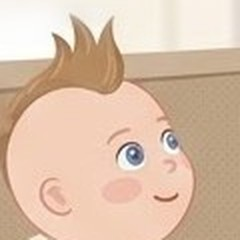
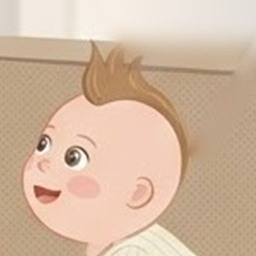
Telefon denemesinden düzeltmeler
Avatarlar yüzlere ortalandı; Profil özet cümlesindeki boşluk hatası giderildi;
Ayarlar'dan "Dil kuralı" kutusu kaldırıldı; hero görseli tam gösteriliyor;
tüm tummy time kartlarına görsel eklendi; "Canlandır" için kare dizisi
oynatıcısı eklendi (kareler gelince etkinleşir).

diff --git a/css/app.css b/css/app.css
@@ -86,7 +86,7 @@ a { color: var(--green-dark); }
 }
 .profil-summary .label { font-size: 14px; font-weight: 700; color: var(--text-2); }
 .profil-summary .value { font-size: 17px; font-weight: 900; }
-.profil-summary .note { font-size: 13px; font-weight: 600; color: var(--text-2); }
+.profil-summary .summary-note { font-size: 13px; font-weight: 600; color: var(--text-2); }
 
 .profil .btn-primary { margin-top: auto; }
 
@@ -155,9 +155,6 @@ a { color: var(--green-dark); }
 .note--sage { background: var(--sage-light); }
 .note--sage .note-text { color: #33493C; }
 .note--sage svg { flex: none; }
-.note--peach { background: var(--peach-light); }
-.note--peach .note-text { color: #5E3A22; }
-.note--peach .avatar { width: 34px; height: 34px; flex: none; }
 .note--card { background: var(--card); flex-direction: column; gap: 6px; box-shadow: var(--shadow); }
 .note--card .note-text { color: var(--text-2); }
 .note-small { font-size: 13px; font-weight: 700; color: var(--text-2); }
@@ -192,7 +189,7 @@ a { color: var(--green-dark); }
 .task-head .cat { font-weight: 700; color: var(--text-2); }
 .now-tag { display: inline-block; margin-bottom: 4px; background: var(--green); color: #fff; border-radius: 10px; padding: 2px 8px; font-size: 11px; font-weight: 900; letter-spacing: 0.6px; }
 .cat-badge { width: 30px; height: 30px; flex: none; border-radius: 15px; display: flex; align-items: center; justify-content: center; }
-.task-img { display: block; width: 100%; height: 150px; object-fit: cover; object-position: 50% 45%; border-radius: 14px; }
+.task-img { display: block; width: 100%; height: auto; border-radius: 14px; }
 .task-desc { margin: 0; font-size: 14px; line-height: 1.5; font-weight: 600; color: #4C463D; }
 .task-note { margin: 0; font-size: 13px; line-height: 1.4; font-weight: 800; color: var(--tag-dil-fg); background: var(--tag-dil-bg); border-radius: 12px; padding: 6px 10px; }
 .task-foot { display: flex; align-items: center; justify-content: space-between; gap: 8px; }
@@ -259,16 +256,17 @@ body.sheet-open { overflow: hidden; }
 .open-pill { position: absolute; right: 10px; bottom: 10px; background: var(--green); color: #fff; border-radius: 16px; padding: 7px 14px; font-size: 13px; font-weight: 800; }
 
 .gorev { background: var(--cream); }
-.hero { position: relative; height: 300px; background: var(--peach); overflow: hidden; }
-.hero img { display: block; width: 100%; height: 100%; object-fit: cover; object-position: 50% 40%; }
-.hero--plain { height: 170px; display: flex; align-items: center; justify-content: center; }
+.hero { position: relative; background: var(--peach); overflow: hidden; padding-bottom: 28px; }
+.hero-art { position: relative; }
+.hero-art img { display: block; width: 100%; height: auto; }
+.hero-art img.frame { position: absolute; inset: 0; height: 100%; opacity: 0; }
+.hero--plain { height: 170px; padding-bottom: 0; display: flex; align-items: center; justify-content: center; }
 .hero-back { position: absolute; left: 16px; top: calc(16px + env(safe-area-inset-top)); width: 44px; height: 44px; border-radius: 22px; background: rgba(251, 247, 241, 0.92); display: flex; align-items: center; justify-content: center; }
 .play-btn { position: absolute; right: 16px; bottom: 44px; height: 44px; padding: 0 18px; border: none; border-radius: 22px; background: rgba(251, 247, 241, 0.94); color: var(--text); font-size: 14px; font-weight: 800; }
 .hero .pop { position: absolute; top: 70px; right: 16px; background: var(--card); border-radius: 18px; padding: 8px 14px; font-size: 16px; font-weight: 900; box-shadow: 0 6px 16px -8px rgba(60, 50, 35, 0.5); }
 .hero .h1 { position: absolute; left: 50%; top: 42%; }
 .hero .h2 { position: absolute; left: 56%; top: 50%; opacity: 0; }
-.hero img.still { transform: scale(1.02); }
-.hero img.live { transform-origin: 60% 45%; }
+.hero-art img.live { transform-origin: 60% 45%; }
 
 .panel { margin-top: -28px; position: relative; flex: 1; background: var(--card); border-radius: 30px 30px 0 0; padding: 22px 18px calc(28px + env(safe-area-inset-bottom)); display: flex; flex-direction: column; gap: 16px; }
 .panel-head { display: flex; flex-direction: column; gap: 8px; }
@@ -290,7 +288,7 @@ body.sheet-open { overflow: hidden; }
 @keyframes pop { 0%, 8% { opacity: 0; transform: translateY(8px) scale(0.9); } 18%, 70% { opacity: 1; transform: translateY(0) scale(1); } 84%, 100% { opacity: 0; transform: translateY(-4px); } }
 @keyframes rise { 0% { opacity: 0; transform: translateY(0) scale(0.6); } 20% { opacity: 1; transform: translateY(-8px) scale(1); } 100% { opacity: 0; transform: translateY(-46px) scale(0.9); } }
 @media (prefers-reduced-motion: no-preference) {
-  .hero img.live { animation: kb 6s ease-in-out infinite; }
+  .hero-art img.live { animation: kb 6s ease-in-out infinite; }
   .hero .pop { animation: pop 4s ease-in-out infinite; }
   .hero .h1 { animation: rise 3s ease-out infinite; }
   .hero .h2 { animation: rise 3s ease-out 1.4s infinite; }

diff --git a/js/screens/gorev.js b/js/screens/gorev.js
@@ -2,7 +2,7 @@ import { TASKS } from '../data/tasks.js';
 import { PACKS } from '../data/phrases.js';
 import { getProfile, getLevels, getDone, toggleDone, dateKey } from '../state.js';
 import { pickDay } from '../logic/pick.js';
-import { CATEGORY, IMAGES, IMAGE_ALT, categoryIcon } from '../categories.js';
+import { CATEGORY, IMAGES, IMAGE_ALT, FRAMES, categoryIcon } from '../categories.js';
 import { openCoach, coachIcon, phraseListHtml, bindListen, stopSpeaking } from '../coach.js';
 
 const HEART = 'M12 21s-8-5-8-11a4.5 4.5 0 0 1 8-2.8A4.5 4.5 0 0 1 20 10c0 6-8 11-8 11z';
@@ -15,6 +15,23 @@ const ANNE_PHRASE = '“Aferin oğluma, ne güçlüsün!”';
 
 const SAFETY_TUMMY =
   'Tummy time yalnızca bebek uyanıkken ve yakın gözetim altındayken yapılır. Sen uykuya dalıyorsan hemen bitir. Uyku her zaman sırtüstüdür; karnüstü bir uyku pozisyonu değildir. Kaynak: AAP';
+
+// Kareleri sırayla, yumuşak geçişle döngüye sokar (kare başına ~1,8 sn). Hareket azaltma açıksa ilk karede kalır.
+function playFrames(imgs) {
+  const n = imgs.length;
+  if (matchMedia('(prefers-reduced-motion: reduce)').matches) return;
+  const fade = 0.15 / n;
+  imgs.forEach((img, i) => {
+    const start = i / n;
+    const end = (i + 1) / n;
+    const keys = [];
+    if (i > 0) keys.push({ offset: 0, opacity: 0 }, { offset: start - fade, opacity: 0 });
+    keys.push({ offset: start, opacity: 1 }, { offset: end - fade, opacity: 1 }, { offset: end, opacity: 0 });
+    if (i === 0) keys.push({ offset: 1 - fade, opacity: 0 }, { offset: 1, opacity: 1 });
+    else if (end < 1) keys.push({ offset: 1, opacity: 0 });
+    img.animate(keys, { duration: n * 1800, iterations: Infinity });
+  });
+}
 
 export function render(root, navigate, id) {
   const task = TASKS.find((t) => t.id === id);
@@ -33,6 +50,8 @@ export function render(root, navigate, id) {
     stopSpeaking();
     const done = getDone(key).includes(id);
     const image = task.image && IMAGES[task.image]?.[view];
+    const seq = task.image && FRAMES[task.image]?.[view];
+    const frames = seq && seq.length > 1 ? seq : null;
     const sources = task.source.length ? task.source : ['Plan'];
     const babaNote = me === 'baba' && task.babaNote ? `<p class="task-note">${task.babaNote}</p>` : '';
     const phrase = PACKS.tummy.phrases[1];
@@ -40,7 +59,13 @@ export function render(root, navigate, id) {
     root.innerHTML = `
       <main class="screen gorev">
         <div class="hero${image ? '' : ' hero--plain'}" style="${image ? '' : `background:${cat.bg}`}">
-          ${image ? `<img src="${image}" alt="${IMAGE_ALT[view]}" class="${playing ? 'live' : 'still'}">` : `<span class="hero-icon">${categoryIcon(cat, 56)}</span>`}
+          ${
+            image
+              ? `<div class="hero-art"><img src="${image}" alt="${IMAGE_ALT[view]}" class="${playing && !frames ? 'live' : 'still'}">${
+                  playing && frames ? frames.map((f) => `<img class="frame" src="${f}" alt="">`).join('') : ''
+                }</div>`
+              : `<span class="hero-icon">${categoryIcon(cat, 56)}</span>`
+          }
           ${
             image && playing
               ? `<span class="pop">${BUBBLE[view]}</span>
@@ -88,6 +113,7 @@ export function render(root, navigate, id) {
         </div>
       </main>`;
 
+    if (playing && frames) playFrames(root.querySelectorAll('.hero-art img.frame'));
     root.querySelector('[data-play]')?.addEventListener('click', () => {
       playing = !playing;
       draw();

diff --git a/js/data/tasks.js b/js/data/tasks.js
@@ -13,7 +13,7 @@ const NONE = [];
 const RAW = {
   '0-3': {
     temel: [
-      ['sabah', 'ikisi', 'yok', 'hareket', 'Kısa tummy time', 'Bez değişiminden ya da uykudan sonra, Aslan uyanıkken ve gözetim altındayken 3–5 dakikayla başla. Günde 2–3 kez; 7. haftaya kadar günde toplam 15–30 dakikaya çıkar.', AAP],
+      ['sabah', 'ikisi', 'yok', 'hareket', 'Kısa tummy time', 'Bez değişiminden ya da uykudan sonra, Aslan uyanıkken ve gözetim altındayken 3–5 dakikayla başla. Günde 2–3 kez; 7. haftaya kadar günde toplam 15–30 dakikaya çıkar.', AAP, { image: 'gogus' }],
       ['ogle', 'ikisi', 'yok', 'hareket', 'Göğüste tummy time', 'En kolay yol: sırtüstü uzan, Aslan göğsünde. Sonra yerde battaniye, oyuncak tam uzanamayacağı mesafede.', NONE, { image: 'gogus' }],
       ['ogle', 'ikisi', 'yok', 'hareket', 'Şarkıyla kol-bacak hareketi', 'Şarkı söylerken kollarını ve bacaklarını nazikçe hareket ettir.', CDC],
       ['ogle', 'ikisi', 'yok', 'bilissel', 'Görsel takip oyunu', 'Parlak bir oyuncağı yavaşça sağdan sola, yukarıdan aşağı gezdir; gözüyle takip ediyor mu bak.', CDC],
@@ -38,7 +38,7 @@ const RAW = {
   },
   '4-6': {
     temel: [
-      ['sabah', 'ikisi', 'yok', 'hareket', 'Tummy time devam', 'Hareket etmeye başlamamış bebek için gün içine yayılmış en az 30 dakika.', WHO],
+      ['sabah', 'ikisi', 'yok', 'hareket', 'Tummy time devam', 'Hareket etmeye başlamamış bebek için gün içine yayılmış en az 30 dakika.', WHO, { image: 'gogus' }],
       ['ogle', 'ikisi', 'yok', 'hareket', 'Oyuncak çemberi', 'Oyuncakları etrafına daire şeklinde diz, farklı yönlere uzansın.', AAP],
       ['ogle', 'ikisi', 'yok', 'hareket', 'Yerde serbest oyun', 'Yerde her gün serbest oyun; yuvarlanmayı teşvik etmek için oyuncağı yan tarafa koy.', NONE],
       ['ogle', 'ikisi', 'yok', 'hareket', 'Zıplatma oyunu', 'Koltuk altından tutup ayaklarını kucağına bastırarak zıplat.', CDC],

diff --git a/js/screens/ayarlar.js b/js/screens/ayarlar.js
@@ -70,14 +70,6 @@ export function render(root, navigate) {
           </div>
         </section>
 
-        <section class="note note--peach">
-          <span class="avatar"><img src="assets/av_anne.jpg" alt=""></span>
-          <div>
-            <span class="note-title">Dil kuralı değişmez</span>
-            <span class="note-text">İngilizce kartlar yalnızca baba profiline gider. Anne profilinde seviye sadece Türkçe kartların sayısını değiştirir; anneye hiçbir seviyede İngilizce görev verilmez.</span>
-          </div>
-        </section>
-
         <section class="note note--card">
           <span class="note-title">Bilmen gerekenler</span>
           <span class="note-text">Tüm kartlar kaynaklıdır (WHO, CDC, AAP, Harvard); uygulama içerik uydurmaz. Uygulama tanı koymaz. Gelişimle ilgili içini rahatsız eden bir şey olursa beklemeden çocuk doktoruna danış.</span>

diff --git a/js/categories.js b/js/categories.js
@@ -6,6 +6,11 @@ export const CATEGORY = {
 };
 
 export const IMAGES = { gogus: { baba: 'assets/baba.jpg', anne: 'assets/anne.jpg' } };
+// Gerçek hareket için kare dizisi: aynı kadrajdan çekilmiş kareler gelince buraya yaz, ör.
+//   gogus: { baba: ['assets/frames/gogus-baba-1.jpg', ...], anne: [...] }
+// "Canlandır" kareleri yumuşak geçişle döngüye sokar; kare yoksa yalnızca yavaş yakınlaşma olur.
+export const FRAMES = {};
+
 export const IMAGE_ALT = {
   baba: 'Baba kanepede yarı uzanmış, göğsündeki Aslan başını kaldırmış, yüz yüze bakışıyorlar',
   anne: 'Anne kanepede yarı uzanmış, göğsündeki Aslan başını kaldırmış, gülümseyerek bakışıyorlar',

diff --git a/js/screens/profil.js b/js/screens/profil.js
@@ -39,7 +39,7 @@ export function render(root, navigate) {
       <div class="profil-summary">
         <span class="label">Bu cihazda</span>
         <span class="value" data-summary></span>
-        <span class="note">Görev kartlarında ve görsellerde <span data-who-label></span> görünür.</span>
+        <span class="summary-note">Görev kartlarında ve görsellerde <span data-who-label></span> görünür.</span>
       </div>
 
       <button class="btn-primary" data-cta></button>
